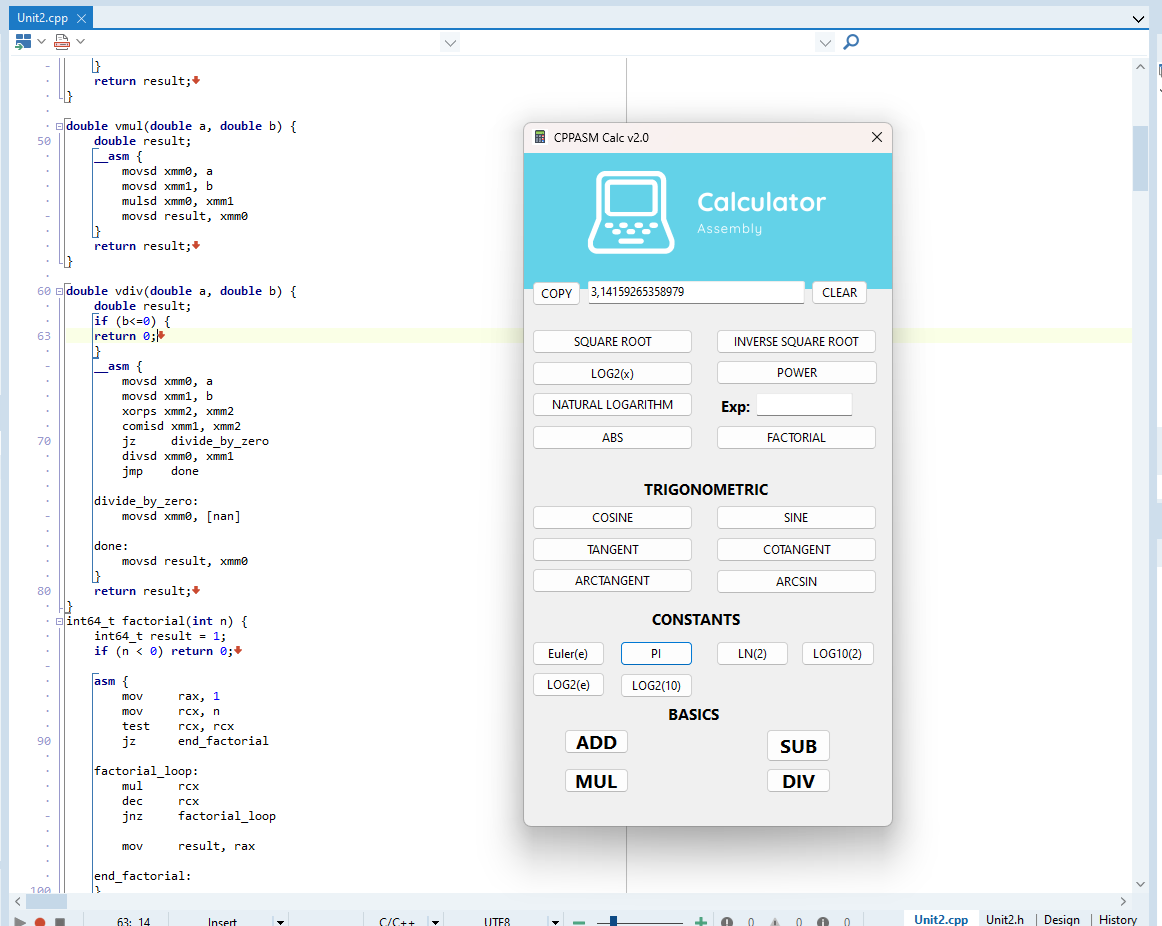
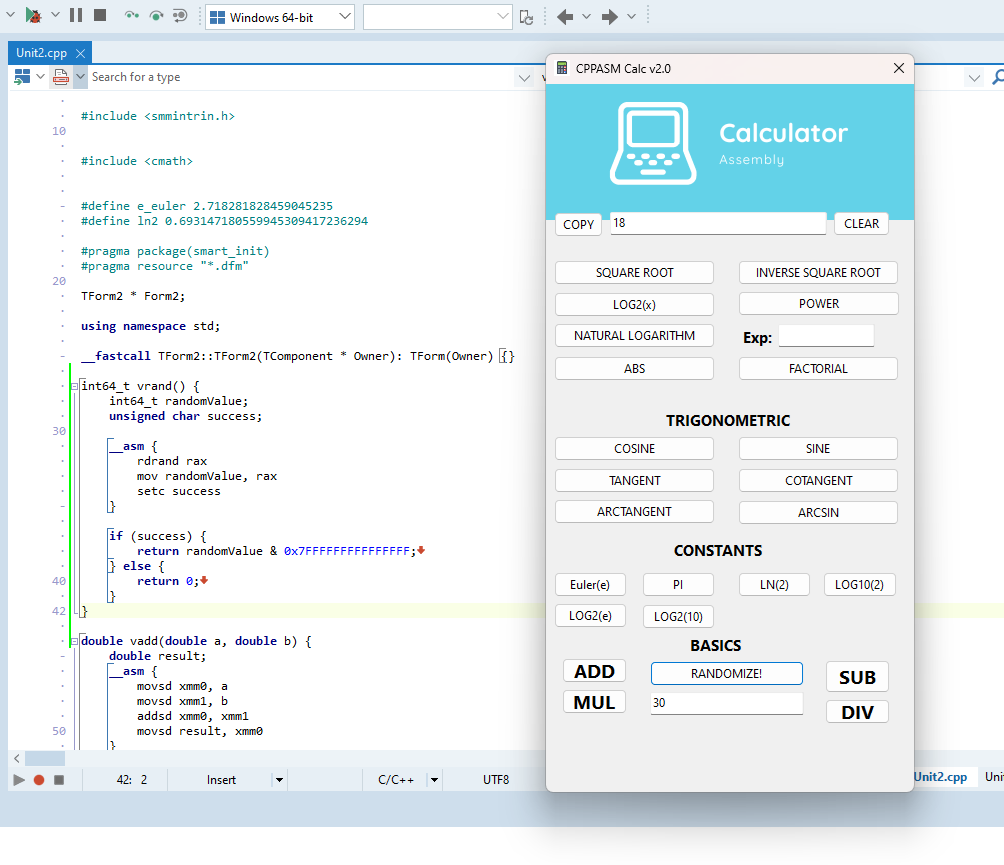
Add files via upload

Changed region(s): [[0.0, 0.0, 1.0, 1.0]]

diff --git a/Unit2.cpp b/Unit2.cpp
@@ -24,6 +24,23 @@ using namespace std;
 
 __fastcall TForm2::TForm2(TComponent * Owner): TForm(Owner) {}
 
+int64_t vrand() {
+    int64_t randomValue;
+    unsigned char success;
+
+    __asm {
+        rdrand rax
+        mov randomValue, rax
+        setc success
+    }
+
+    if (success) {
+        return randomValue & 0x7FFFFFFFFFFFFFFF;
+    } else {
+        return 0;
+    }
+}
+
 double vadd(double a, double b) {
     double result;
     __asm {
@@ -579,7 +596,7 @@ void __fastcall TForm2::Button24Click(TObject *Sender) {
 }
 
 void __fastcall TForm2::Button25Click(TObject *Sender) {
-    double secondNumber = StrToFloat(Edit1->Text);
+	double secondNumber = StrToFloat(Edit1->Text);
     double result;
 
     if (firstInputDone) {
@@ -599,7 +616,7 @@ void __fastcall TForm2::Button25Click(TObject *Sender) {
         operation = '-';
         Edit1->Text = "";
         firstInputDone = true;
-    }
+	}
 
     Edit1->SetFocus(); // Volta o foco para o Edit1
 }
@@ -627,7 +644,18 @@ void __fastcall TForm2::Button23Click(TObject *Sender) {
         firstInputDone = true;
     }
 
-    Edit1->SetFocus(); // Volta o foco para o Edit1
+	Edit1->SetFocus();
 }
 //---------------------------------------------------------------------------
 
+void __fastcall TForm2::Button26Click(TObject *Sender)
+{
+if (Edit3 -> Text.IsEmpty()) {
+	  MessageBoxA(NULL, "O campo não pode ficar vazio.", "Aviso", MB_OK | MB_ICONWARNING);
+   } else {
+    int64_t maxRange = StrToInt(Edit3->Text);
+    int64_t randomValue = vrand() % (maxRange + 1);
+    Edit1->Text = IntToStr(randomValue);
+}
+//---------------------------------------------------------------------------
+ }

diff --git a/Unit2.h b/Unit2.h
@@ -46,6 +46,8 @@ __published:	// IDE-managed Components
     TButton *Button23;
     TButton *Button24;
     TButton *Button25;
+	TButton *Button26;
+	TEdit *Edit3;
     void __fastcall Button1Click(TObject *Sender);
     void __fastcall Button2Click(TObject *Sender);
     void __fastcall Button3Click(TObject *Sender);
@@ -72,6 +74,7 @@ __published:	// IDE-managed Components
     void __fastcall Button24Click(TObject *Sender);
     void __fastcall Button25Click(TObject *Sender);
     void __fastcall Button23Click(TObject *Sender);
+	void __fastcall Button26Click(TObject *Sender);
 
 private:	// User declarations
     bool firstInputDone;
